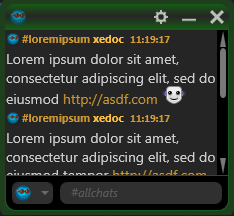
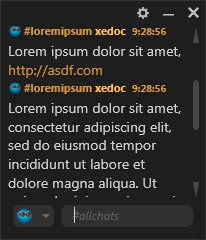
.

diff --git a/Ubiquitous2/Skins/Simple/MainWindowSkin.xaml b/Ubiquitous2/Skins/Simple/MainWindowSkin.xaml
@@ -19,7 +19,7 @@
                 <Setter Property="Opacity" Value="1"/>
             </Trigger>
             <Trigger Property="IsMouseOver" Value="False">
-                <Setter Property="Opacity" Value="0.7"/>
+                <Setter Property="Opacity" Value="0.3"/>
             </Trigger>
         </Style.Triggers>
     </Style>
@@ -33,7 +33,7 @@
     </Style>
     <Style x:Key="OverlayHyperlink"  TargetType="{x:Type Hyperlink}">
         <Setter Property="TextDecorations" Value="None"/>
-        <Setter Property="Foreground" Value="LightGray"/>
+        <Setter Property="Foreground" Value="#FF474747"/>
         <Style.Triggers>
             <Trigger Property="IsMouseOver" Value="True">
                 <Setter Property="Foreground" Value="White"/>
@@ -62,7 +62,7 @@
                         </Grid.ColumnDefinitions>
 
                         <Grid Grid.RowSpan="3" Grid.ColumnSpan="3" Margin="5">
-                            <Border Panel.ZIndex="-5" Background="#FF1E1E1E" CornerRadius="10,10,10,10" BorderBrush="#FF165B1D" BorderThickness="1" Margin="0">
+                            <Border Panel.ZIndex="-5" Background="#FF1E1E1E" CornerRadius="0" BorderBrush="#FF165B1D" BorderThickness="1" Margin="0">
                                 <!--<Border.Style>
                                     <Style>
                                         <Style.Triggers>
@@ -92,8 +92,7 @@
                                         </i:Interaction.Behaviors>
  
                                         <DockPanel HorizontalAlignment="Stretch" VerticalAlignment="Center">
-
-                                            <TextBlock DockPanel.Dock="Right" HorizontalAlignment="Right" VerticalAlignment="Center">
+                                                <TextBlock DockPanel.Dock="Right" HorizontalAlignment="Right" VerticalAlignment="Center">
                                                 <Hyperlink Style="{StaticResource OverlayHyperlink}" Focusable="False" Command="{Binding ExitApplication}">
                                                     <Image Style="{StaticResource TopBarIcon}" DockPanel.Dock="Right" Width="11" Source="/Ubiquitous2;component/Resources/close.ico" HorizontalAlignment="Right" VerticalAlignment="Center">
                                                     </Image>
@@ -140,13 +139,13 @@
                         </Grid>
 
 
-                        <Border Name="topLeft" Style="{StaticResource WindowBorder}" CornerRadius="10"/>
+                        <Border Name="topLeft" Style="{StaticResource WindowBorder}"/>
                         <Border Name="top" Style="{StaticResource WindowBorder}" Grid.Column="1" Padding="0" Margin="-7,0" />
-                        <Border Name="topRight" Style="{StaticResource WindowBorder}" CornerRadius="10" Grid.Column="2" />
+                        <Border Name="topRight" Style="{StaticResource WindowBorder}" Grid.Column="2" />
                         <Border Name="right" Style="{StaticResource WindowBorder}" Grid.Row="1" Grid.Column="2" Margin="0,-7" />
-                        <Border Name="bottomRight" Style="{StaticResource WindowBorder}" Grid.Row="2" Grid.Column="2" CornerRadius="10" />
+                        <Border Name="bottomRight" Style="{StaticResource WindowBorder}" Grid.Row="2" Grid.Column="2"  />
                         <Border Name="bottom" Style="{StaticResource WindowBorder}" Grid.Row="2" Grid.Column="1" Margin="-7,0" />
-                        <Border Name="bottomLeft" Style="{StaticResource WindowBorder}" Grid.Row="2" CornerRadius="10" />
+                        <Border Name="bottomLeft" Style="{StaticResource WindowBorder}" Grid.Row="2" />
                         <Border Name="left" Style="{StaticResource WindowBorder}" Grid.Row="1" Margin="0,-7" />
 
                         <i:Interaction.Behaviors>
